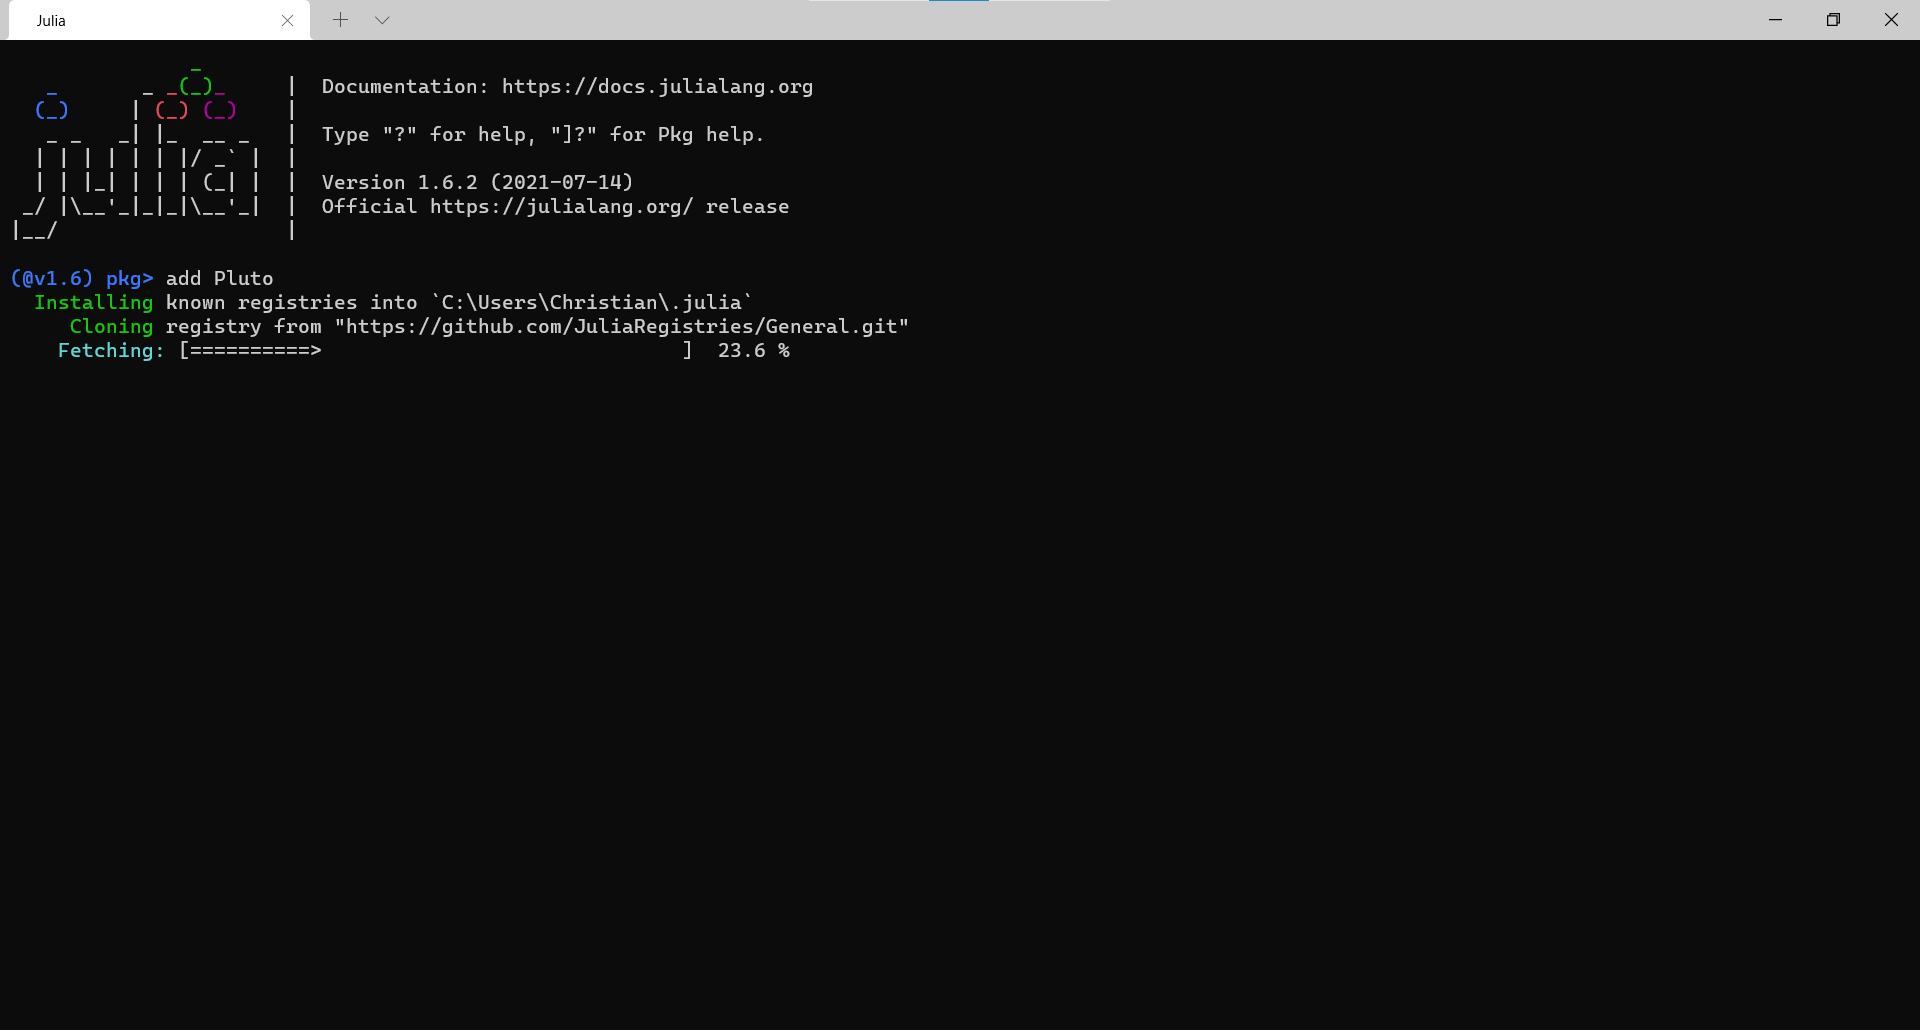
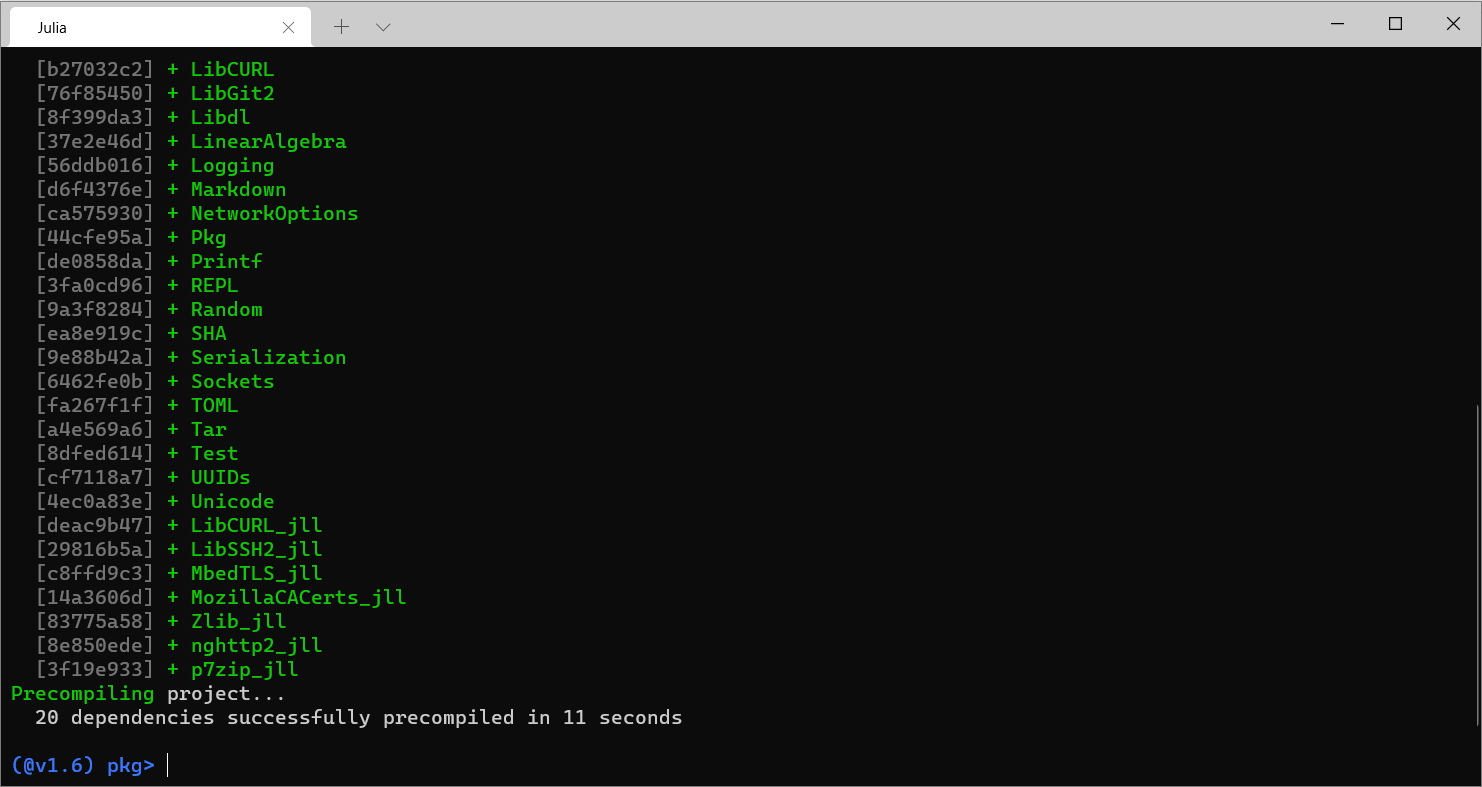
update

diff --git a/notes/01Instalación.md b/notes/01Instalación.md
@@ -123,24 +123,65 @@ Por ahora, solo lo instalaremos escribiendo
 ```julia
 (@1.6) pkg> add Pluto
 ```
-en el gestor de paquetes.
+en el gestor de paquetes. Al terminar, deberás tener una pantalla como la siguiente.
+
+![](../imgs/pluto-01.png)
 
 ### IJulia
 
 IJulia es el _kernel_ de Julia para Jupyter. Aunque no usaremos _notebooks_ de Jupyter en este taller, hay muchos materiales disponibles en Internet en este formato. Por lo tanto, lo instalaremos para que Julia esté visible desde tu instalación propia de Jupyter y puedas abrir _notebooks_ de Jupyter desde Jupyter Lab o incluso desde VS Code (a continuación lo instalaremos).
 
+En el gestor de paquetes, escribe
+
+```julia
+(@1.6) pkg> add IJulia
+```
+Al terminar, deberás tener una pantalla como la siguiente:
+
+![](../imgs/ijulia-01.png)
+
+Para salir del gestor de paquetes solo usa la tecla `retroceso` de tu teclado. Nota que el _prompt_ cambia a `julia> ` de nuevo.
 
 ## Visual Studio Code
 
-1. Descargar VS Code desde [https://code.visualstudio.com/](https://code.visualstudio.com/)
+El ambiente de desarrollo integrado (IDE, en inglés) que usaremos es Visual Studio Code de Mircrosoft. Este es un IDE muy bueno para muchos lenguajes de programación: es muy rápido, ligero, con control de versiones integrado e incluso una terminal.
+
+De forma oficial, un equipo de desarrolladores ha estado trabajando en la integración de [Julia en VS Code](https://www.julia-vscode.org/). Esta es la razón por la que lo usaremos.
+
+Además de lo anterior, VS Code nos permite visualizar ahora de forma nativa Jupyter Notebooks. Y como ya instalamos IJulia, de hecho ya podemos ejecutar (no solo visualizar) _notebooks_ de Jupyter escritos para Julia.
+
+Vamos a instalar VS Code:
+
+1. Descarga VS Code desde [https://code.visualstudio.com/](https://code.visualstudio.com/)
 
 	![Image](../imgs/vs-code-01.png)
 
-2. Al instalar, seleccionar:
+2. Instálalo como cualquier otro programa, pero al llegar a la siguiente pantalla, selecciona:
+
 	- [X] Agregar la acción "Abrir con Code" al menú contextual de archivo del Explorador de Windows
 	- [X] Agregar la acción "Abrir con Code" al menú contextual de directorio del Explorador de Windows
 	- [X] Agregar a PATH
 
-2. Al abrir VS Code, ir a las configuraciones de VS Code (engrane -> *Settings*) y buscar en las Extensiones la de Julia y modificar:
-	- `Julia: Executable Path` (hacia donde está el ejecutable de Julia) o añade Julia a la variable `PATH` del sistema
-	- Julia > `Execution:Result Type` (a *both*)
+	![vs-code](../imgs/vs-code-02.png)
+
+3. Abre VS Code.
+
+4. Ve a las configuraciones de VS Code (engrane -> *Settings* o el íconos de cubos).
+
+5. Busca la extensión de Julia y haz clic en `Install`.
+
+	![](../imgs/vs-code-03.png)
+
+6. Haz clic en la configuración de la extensión dando clic en el engrane.
+	
+	![](../imgs/vs-code-04.png)
+
+7. Activa la configuración palomenando el cuadro junto a `Julia: Notebook Controller`.
+
+	![](../imgs/vs-code-05.png)
+
+## Conclusión
+
+Listo, ya tenemos instalado Julia, los paquetes que nos permiten ver _notebooks_ tanto de Pluto como de Jupyter y un poderoso IDE.
+
+De hecho, ahora intenta descargar algún _Jupyter notebook_ de Julia y visualízalo y ejecútalo desde VS Code.
